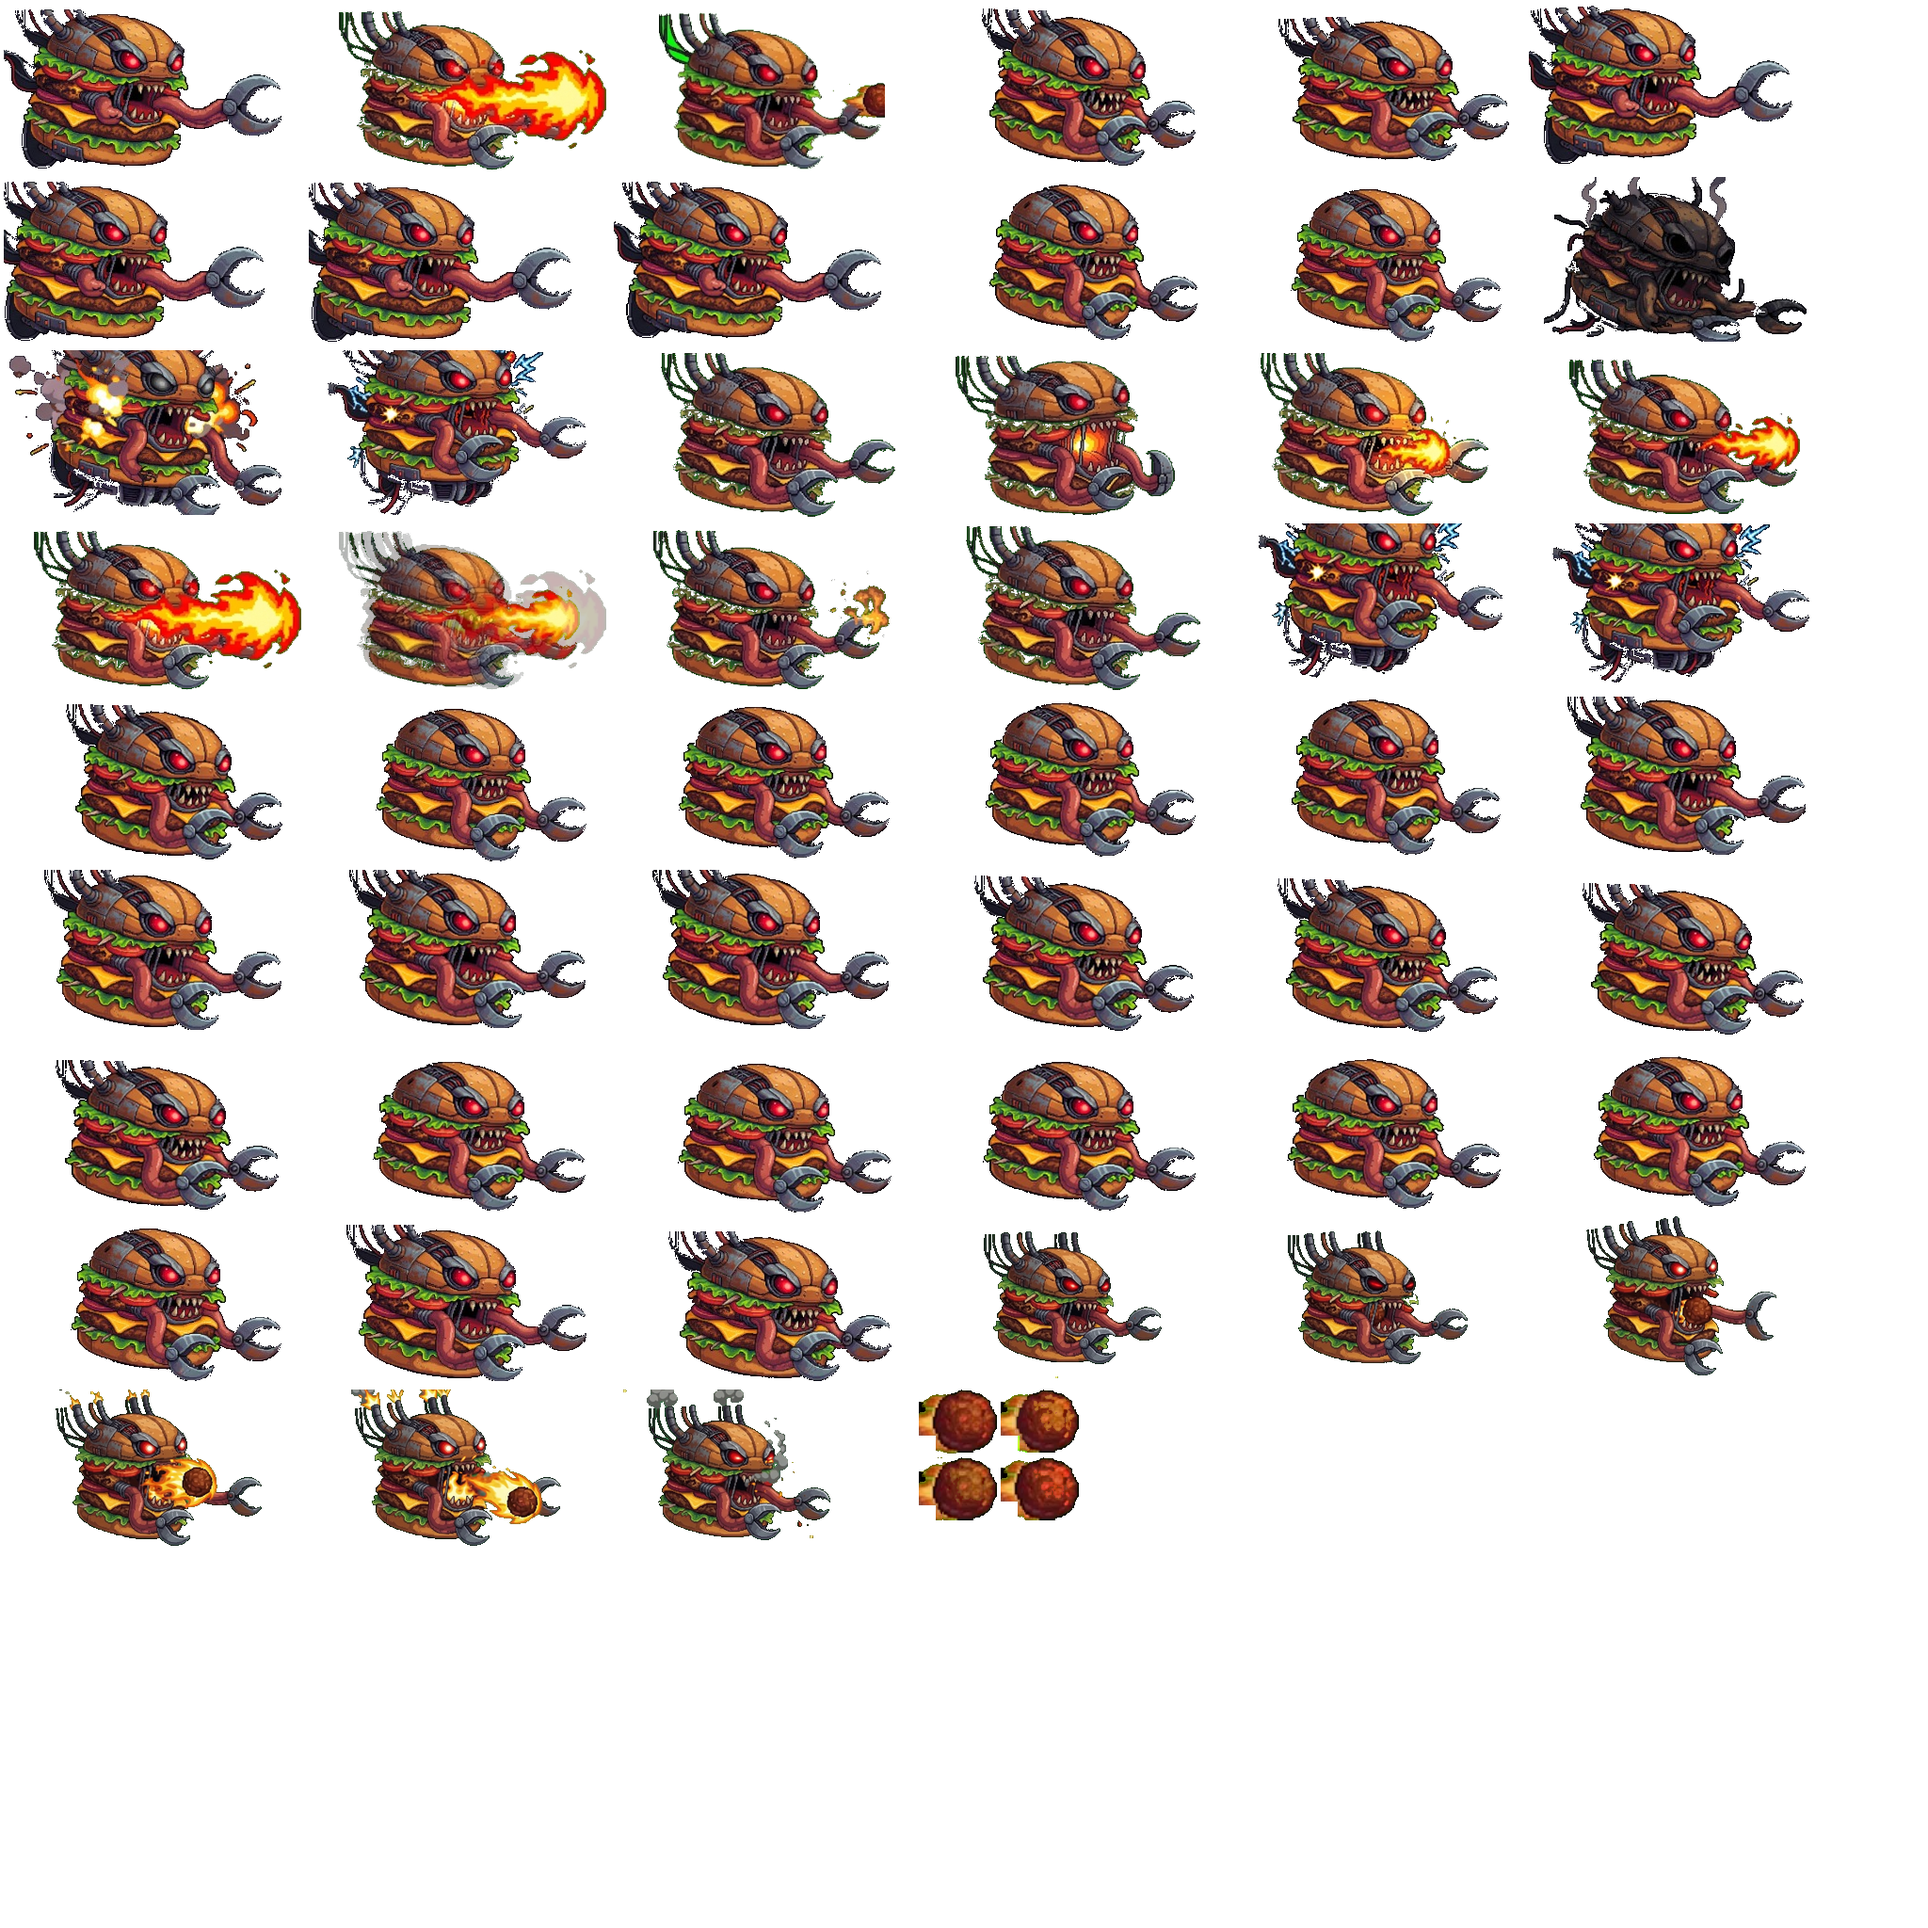
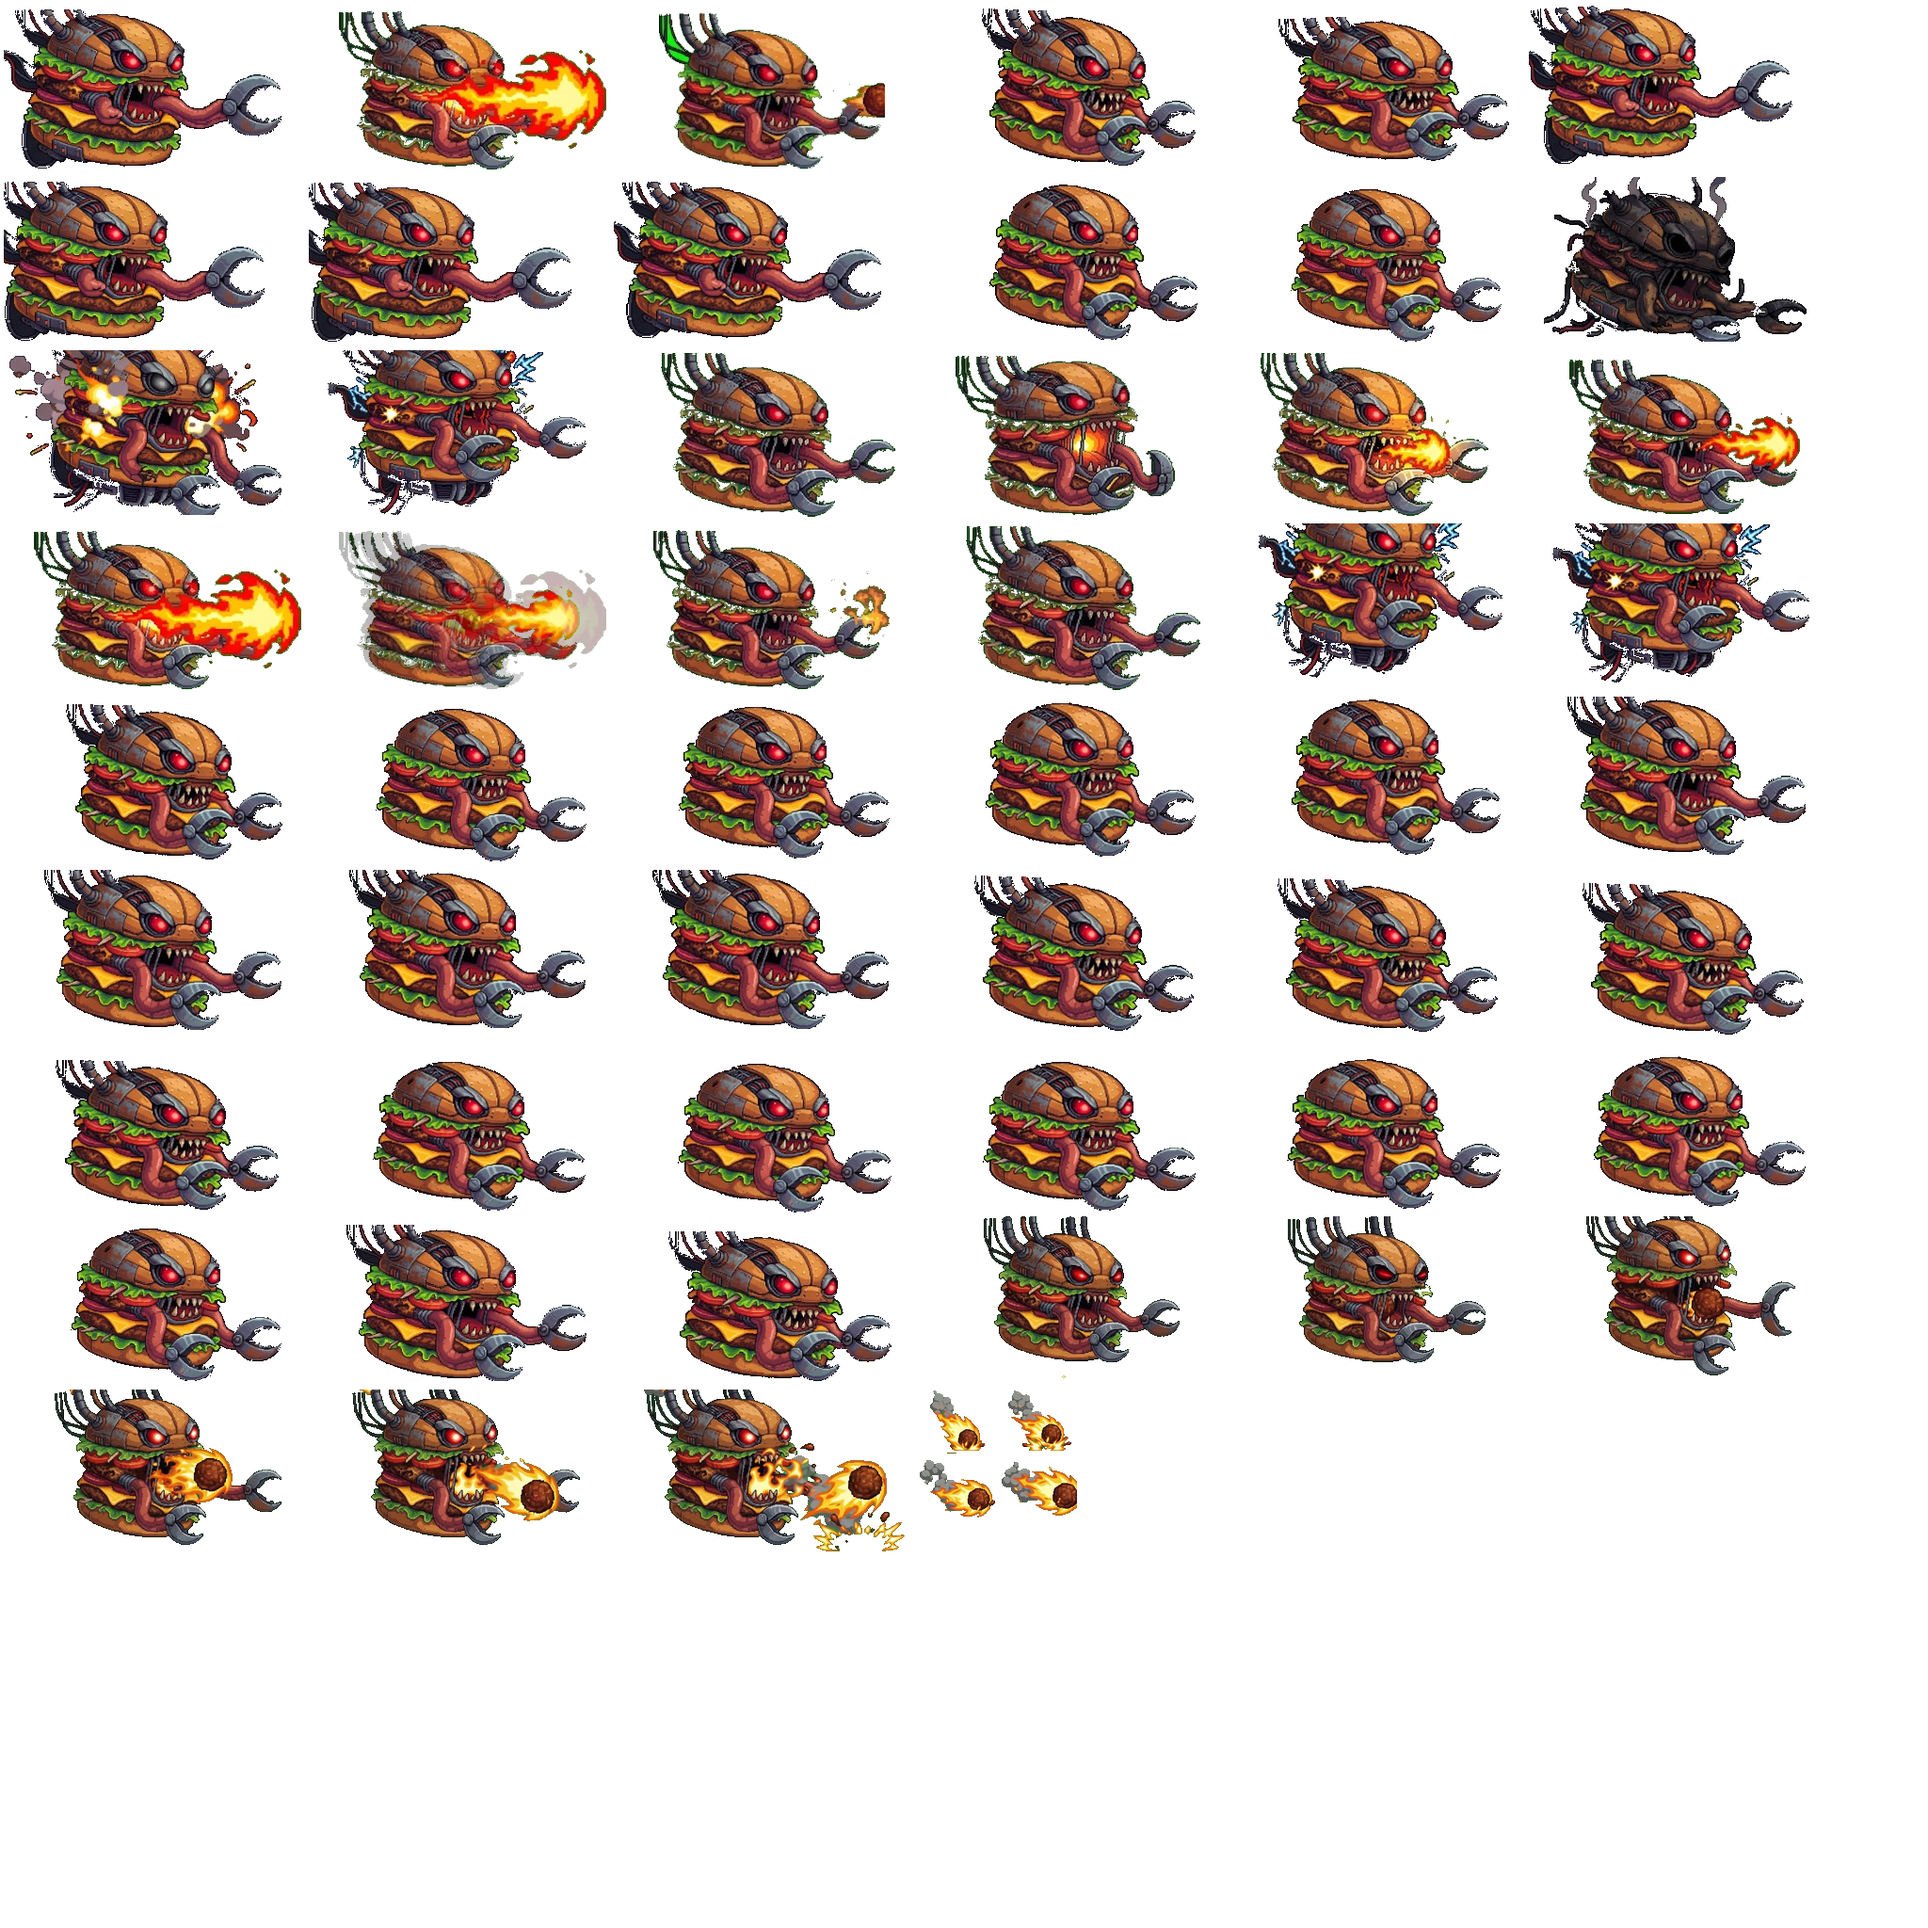
art(boss): match 1:1 boss size in meatball sprites and animate flaming meatball projectile

diff --git a/js/kiloburner.js b/js/kiloburner.js
@@ -505,8 +505,8 @@ class MeatballProjectile {
     const sm = window.spriteManager;
     let spriteDrawn = false;
     if (sm && sm.kiloburnerAtlasLoaded && sm.drawKiloburnerAtlas) {
-      const projW = 26;
-      const projH = 21;
+      const projW = 32;
+      const projH = 26;
       // Native sprite points right (fiery exhaust trail on left, meatball head on right).
       // If moving left (vx < 0), flip horizontally so head leads left and trail trails right.
       const flip = (this.vx < 0);
@@ -519,9 +519,9 @@ class MeatballProjectile {
       ctx.save();
       ctx.translate(Math.round(this.x), Math.round(this.y));
       ctx.rotate(angle * 0.7); // Dynamic ballistic trajectory alignment
-      // Center the ball mass at origin: ball center in 26x21 sprite is at x=15, y=10
-      const drawX = -15;
-      const drawY = -10;
+      // Center the ball mass at origin: ball center in 32x26 sprite is at x=20, y=13
+      const drawX = -20;
+      const drawY = -13;
       spriteDrawn = sm.drawKiloburnerAtlas(ctx, spriteName, drawX, drawY, projW, projH, flip);
       ctx.restore();
     }
@@ -1116,12 +1116,12 @@ class KiloburnerBoss {
         this.lungeX = this.facing * Math.max(0, 6 - (this.stateTimer - 32) * 0.3);
       }
 
-      // Meatball ejection synchronized with Pose 4 (Launch Frame at frame 24; double salvo in Phase 3!)
-      if (this.stateTimer === 24 || (this.phase === 3 && this.stateTimer === 36)) {
+      // Meatball ejection synchronized with Pose 5 (continuous flaming meatball launch at frame 34; double salvo in Phase 3!)
+      if (this.stateTimer === 34 || (this.phase === 3 && this.stateTimer === 46)) {
         if (spawnProjectileCallback && player) {
           const spawnX = this.x + (this.facing * (this.logicalW * 0.42));
           const spawnY = this.y - (this.logicalH * 0.45);
-          const spread = (this.stateTimer === 36) ? (this.facing * -22) : 0;
+          const spread = (this.stateTimer === 46) ? (this.facing * -22) : 0;
           const targetX = player.x + (player.width ? player.width / 2 : 8) + spread + (Math.random() - 0.5) * 8;
           const targetY = player.y + 4;
           spawnProjectileCallback(new MeatballProjectile(spawnX, spawnY, targetX, targetY));

diff --git a/index.html b/index.html
@@ -189,21 +189,21 @@
   </div>
 
   <!-- Game Scripts -->
-  <script src="js/chef_atlas.js?v=144"></script>
-  <script src="js/enemies_atlas.js?v=144"></script>
-  <script src="js/items_atlas.js?v=144"></script>
-  <script src="js/kiloburner_atlas.js?v=144"></script>
-  <script src="js/audio.js?v=144"></script>
-  <script src="js/sprites.js?v=144"></script>
-  <script src="js/kiloburner.js?v=144"></script>
-  <script src="js/map.js?v=144"></script>
-  <script src="js/burger.js?v=144"></script>
-  <script src="js/entities.js?v=144"></script>
-  <script src="js/stage_themes.js?v=144"></script>
-  <script src="js/controls.js?v=144"></script>
-  <script src="js/godot_gfx_engine.js?v=144"></script>
-  <script src="js/screens.js?v=144"></script>
-  <script src="js/game.js?v=144"></script>
+  <script src="js/chef_atlas.js?v=145"></script>
+  <script src="js/enemies_atlas.js?v=145"></script>
+  <script src="js/items_atlas.js?v=145"></script>
+  <script src="js/kiloburner_atlas.js?v=145"></script>
+  <script src="js/audio.js?v=145"></script>
+  <script src="js/sprites.js?v=145"></script>
+  <script src="js/kiloburner.js?v=145"></script>
+  <script src="js/map.js?v=145"></script>
+  <script src="js/burger.js?v=145"></script>
+  <script src="js/entities.js?v=145"></script>
+  <script src="js/stage_themes.js?v=145"></script>
+  <script src="js/controls.js?v=145"></script>
+  <script src="js/godot_gfx_engine.js?v=145"></script>
+  <script src="js/screens.js?v=145"></script>
+  <script src="js/game.js?v=145"></script>
 
   <!-- Service Worker Registration for Offline Play & PWA -->
   <script>

diff --git a/sw.js b/sw.js
@@ -1,4 +1,4 @@
-const CACHE_NAME = 'burgerpanic-mobile-v144';
+const CACHE_NAME = 'burgerpanic-mobile-v145';
 const ASSETS = [
   './',
   './index.html',
